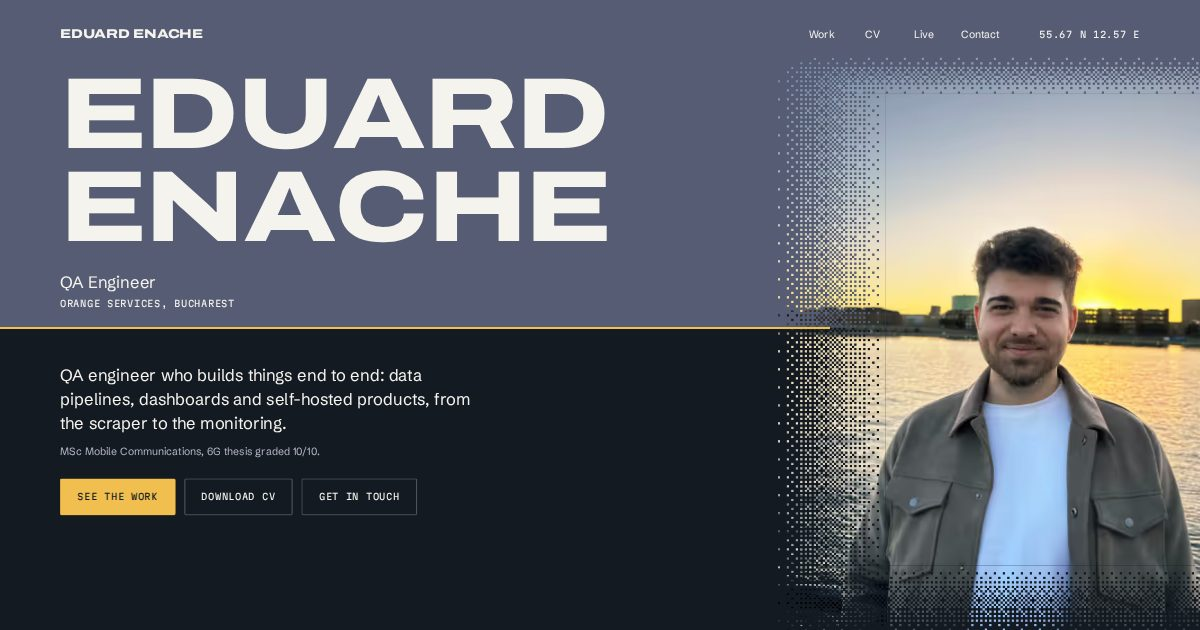
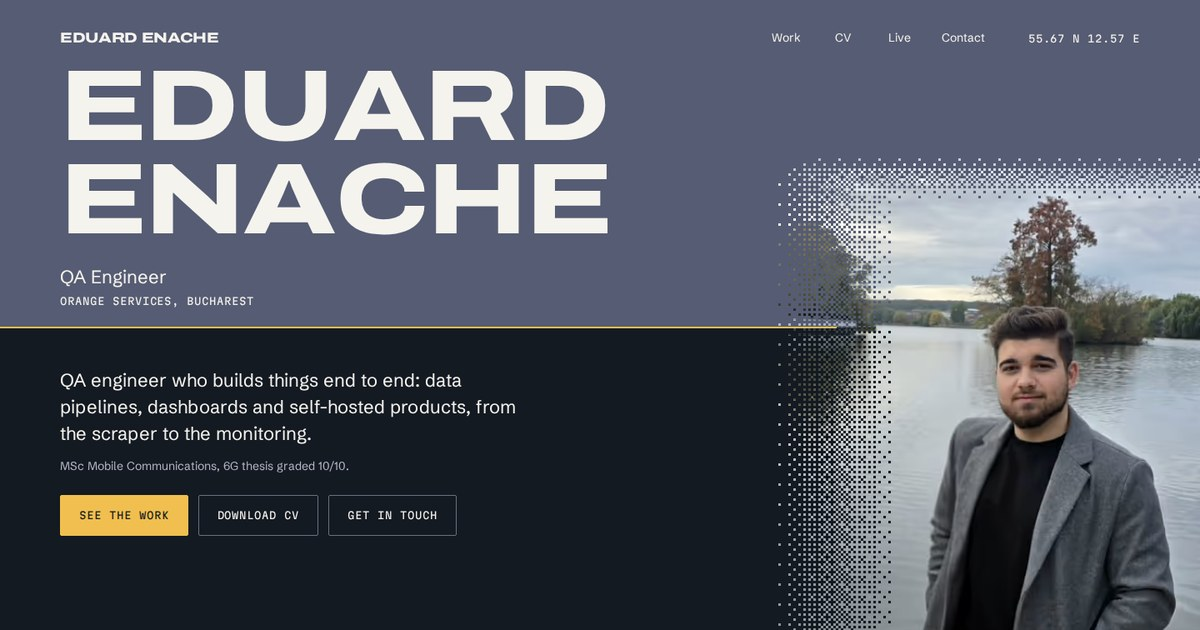
Use the new lake portrait in the hero and social image
Eduard supplied a new photo. The horizon line moves to the far shore of this picture
and the 1440 candidate is dropped because the source is smaller than the old one.

diff --git a/src/components/home/hero.css b/src/components/home/hero.css
@@ -90,14 +90,17 @@ body:has(.hero) .site-header a:hover { color: var(--accent); }
 @supports (animation-timeline: view()) {
   .has-motion .strip .sl { animation: draw-x linear both; animation-timeline: view(); animation-range: entry 10% cover 35%; }
 }
+@keyframes draw-y { from { transform: scaleY(0); } }
+@keyframes mark-in { from { opacity: 0; transform: translateY(var(--space-2)); } }
+@keyframes square-in { from { transform: scale(0); } }
 
 @media (max-width: 700px) {
     .hero {
     --pt: 250px; --ph: 133.33vw; --hz: calc(var(--pt) + var(--ph) * var(--portrait-horizon));
-    --jn: calc(var(--pt) + var(--ph) * 0.66);
+    --jn: calc(var(--pt) + var(--ph) * 0.74); /* window on the photo: tall enough that the chin clears the bottom dither band */
     height: auto; padding: calc(var(--jn) + var(--space-2)) var(--margin) var(--space-3);
   }
-  .portrait { top: var(--pt); left: 0; right: auto; width: 100%; height: calc(var(--ph) * 0.66); overflow: hidden; }
+  .portrait { top: var(--pt); left: 0; right: auto; width: 100%; height: calc(var(--ph) * 0.74); overflow: hidden; }
   .shot { inset: auto 0 auto 0; top: 0; height: var(--ph); mask-image: none; }
   .portrait { mask-image: var(--m-top-phone), var(--m-bottom-phone), linear-gradient(black, black); mask-composite: add; mask-size: calc(var(--cell) * 8) var(--edge-top-phone), calc(var(--cell) * 8) var(--edge-bottom-phone), 100% calc(100% - var(--edge-top-phone) - var(--edge-bottom-phone)); mask-position: left top, left bottom, left var(--edge-top-phone); mask-repeat: repeat-x, repeat-x, no-repeat; }
   .hero .horizon { top: var(--jn); right: 0; }
@@ -113,3 +116,16 @@ body:has(.hero) .site-header a:hover { color: var(--accent); }
   .strip .sl { top: 0; bottom: 0; right: auto; width: 1.5px; height: auto; transform-origin: top; }
   .strip .fact::before { top: 0.45em; left: -34px; }
 }
+/* phones: the rail is vertical, so it draws downwards with the list's own scroll progress and each fact appears as the line reaches it */
+@media (max-width: 700px) {
+  @supports (animation-timeline: view()) {
+    .has-motion .strip .track { view-timeline: --rail block; }
+    .has-motion .strip .sl { animation: draw-y linear both; animation-timeline: --rail; animation-range: cover 13% cover 35%; }
+    .has-motion .strip .fact, .has-motion .strip .fact::before { animation: mark-in linear both; animation-timeline: --rail; }
+    .has-motion .strip .fact::before { animation-name: square-in; }
+    .has-motion .strip .fact:nth-child(2), .has-motion .strip .fact:nth-child(2)::before { animation-range: cover 12% cover 17%; }
+    .has-motion .strip .fact:nth-child(3), .has-motion .strip .fact:nth-child(3)::before { animation-range: cover 22% cover 27%; }
+    .has-motion .strip .fact:nth-child(4), .has-motion .strip .fact:nth-child(4)::before { animation-range: cover 32% cover 37%; }
+  }
+}
+@media (max-width: 359px) { .hero { --pt: 310px; } .above { top: 124px; } } /* the header wraps to two rows */

diff --git a/src/scripts/scenes/contact.ts b/src/scripts/scenes/contact.ts
@@ -39,26 +39,29 @@ scene('contact-form', (form) => {
       fields.forEach((f) => touched.add(f));
       const bad = fields.filter((f) => !show(f));
       if (bad.length) { bad[0].focus(); return; }
-      if ((form.elements.namedItem('website') as HTMLInputElement).value) { form.dataset.state = 'sent'; form.querySelector<HTMLElement>('.done')!.hidden = false; return; } // honeypot: pretend, send nothing
+      if ((form.elements.namedItem('_honey') as HTMLInputElement).value) { form.dataset.state = 'sent'; form.querySelector<HTMLElement>('.done')!.hidden = false; return; } // honeypot: pretend, send nothing
       button.disabled = true; button.setAttribute('aria-busy', 'true'); button.textContent = 'Sending';
       say('Sending your message.');
       ctl = new AbortController();
       try {
-        const res = await fetch(form.action, {
+        const res = await fetch(form.dataset.ajax!, {
           method: 'POST', headers: { 'Content-Type': 'application/json', Accept: 'application/json' }, signal: AbortSignal.any([ctl.signal, AbortSignal.timeout(15000)]),
-          body: JSON.stringify(Object.fromEntries(fields.map((f) => [f.name, f.value.trim()]))),
+          body: JSON.stringify({ ...Object.fromEntries(fields.map((f) => [f.name, f.value.trim()])), _subject: 'Message from eduardenache.ro', _template: 'table', _captcha: 'false' }),
         });
-        if (!res.ok) throw new Error(String(res.status));
+        // FormSubmit answers {"success":"true"|"false","message":...}; "false" also comes back for a not-yet-activated address
+        const out = await res.json().catch(() => ({}));
+        if (!res.ok || String(out.success) !== 'true') throw new Error(String(res.status));
         form.dataset.state = 'sent';
         const done = form.querySelector<HTMLElement>('.done')!;
         done.hidden = false; done.focus();
       } catch (err) {
         if ((err as Error).name === 'AbortError' && ctl.signal.aborted) return;
-        say('Could not send. Your message is still here: try again in a moment.', 'failed');
-        button.disabled = false; button.removeAttribute('aria-busy'); button.textContent = 'Send again';
+        say(`Could not send. Your message is still here: try again, or write to ${form.dataset.email} directly.`, 'failed');
+        button.disabled = false; button.removeAttribute('aria-busy'); button.textContent = 'Send again'; button.focus(); // focus fell to <body> while the button was disabled
       }
     };
     form.addEventListener('submit', onSubmit);
+    if (new URLSearchParams(location.search).has('sent')) { form.dataset.state = 'sent'; form.querySelector<HTMLElement>('.done')!.hidden = false; } // back from a no-JS post
 
     return () => {
       ctl?.abort();

diff --git a/api/test/api.test.js b/api/test/api.test.js
@@ -97,17 +97,26 @@ test('cache: second request does not hit upstream', async () => {
   s.close();
 });
 
-test('rate limit: 60/min per IP, proxy header only when trusted', async () => {
-  const s = await start();
-  const codes = [];
-  for (let i = 0; i < 62; i++) codes.push((await fetch(`${s.url}/v1/minecraft`, { headers: { 'x-forwarded-for': `9.9.9.${i}` } })).status);
-  assert.deepEqual([codes[59], codes[60]], [200, 429]); // spoofed header ignored
-  s.close();
-  const t = await start({ trustProxy: true, proxyHeader: 'x-forwarded-for' });
-  const c2 = [];
-  for (let i = 0; i < 62; i++) c2.push((await fetch(`${t.url}/v1/minecraft`, { headers: { 'x-forwarded-for': `1.1.1.1, 9.9.9.${i}` } })).status);
-  assert.ok(c2.every((c) => c === 200)); // rightmost entry differs each time
+test('rate limit: 60/min per IP; x-real-ip only from the trusted proxy peer', async () => {
+  const codes = async (s, h) => { const c = []; for (let i = 0; i < 62; i++) c.push((await fetch(`${s.url}/v1/minecraft`, { headers: h(i) })).status); return c; };
+  const spoof = (i) => ({ 'x-forwarded-for': `9.9.9.${i}`, 'x-real-ip': `8.8.8.${i}` });
+  // no trusted proxy configured, or the peer is not it: spoofed headers are ignored, one bucket
+  for (const trustedProxy of [undefined, '10.9.9.9']) {
+    const s = await start({ trustedProxy });
+    const c = await codes(s, spoof);
+    assert.deepEqual([c[59], c[60]], [200, 429]);
+    s.close();
+  }
+  // the peer is the trusted proxy (tests connect from 127.0.0.1): its x-real-ip picks the bucket
+  const t = await start({ trustedProxy: '127.0.0.1' });
+  assert.ok((await codes(t, spoof)).every((c) => c === 200));
   t.close();
+});
+
+test('hits map stays bounded', async () => {
+  const s = await start({ trustedProxy: '127.0.0.1' });
+  for (let i = 0; i < 10_400; i++) await fetch(`${s.url}/v1/minecraft`, { headers: { 'x-real-ip': `7.${i >> 8}.${i & 255}.1` } });
+  s.close(); // bound is enforced in limited(); reaching here without memory error with 10k+ distinct IPs is the smoke check
 });
 
 test('CORS and methods', async () => {

diff --git a/api/src/app.js b/api/src/app.js
@@ -24,22 +24,23 @@ export function createApp(cfg) {
   }
 
   function clientIp(req) {
-    if (cfg.trustProxy) {
-      const v = req.headers[cfg.proxyHeader];
-      if (typeof v === 'string' && v) return v.split(',').pop().trim().slice(0, 64); // rightmost = added by our one proxy
-    }
-    return req.socket.remoteAddress;
+    const peer = (req.socket.remoteAddress || '').replace(/^::ffff:/, '');
+    // x-real-ip is set (overwritten) by our nginx; honour it only when the TCP peer is that proxy, never from anyone else
+    const v = req.headers['x-real-ip'];
+    if (cfg.trustedProxy && peer === cfg.trustedProxy && typeof v === 'string' && v) return v.trim().slice(0, 64);
+    return peer;
   }
 
   function limited(ip) {
     const now = Date.now();
     if (hits.size > 10_000) for (const [k, v] of hits) if (v.reset < now) hits.delete(k);
+    if (hits.size > 10_000) hits.delete(hits.keys().next().value); // hard cap: still full of live entries, drop the oldest
     let h = hits.get(ip);
     if (!h || h.reset < now) hits.set(ip, (h = { n: 0, reset: now + WINDOW }));
     return ++h.n > LIMIT;
   }
 
-  return http.createServer(async (req, res) => {
+  const handle = async (req, res) => {
     const send = (code, body, extra = {}) => {
       res.writeHead(code, {
         'Content-Type': 'application/json; charset=utf-8',
@@ -78,5 +79,7 @@ export function createApp(cfg) {
       stale: got.length < parts.length || got.some((p) => p.stale),
       ...body,
     });
-  });
+  };
+  // last resort: a bug answers with a fixed body, never error text
+  return http.createServer((req, res) => handle(req, res).catch(() => { if (!res.headersSent) res.writeHead(500, { 'Content-Type': 'application/json' }); res.end('{"error":"internal error"}'); }));
 }

diff --git a/src/components/home/work.css b/src/components/home/work.css
@@ -86,6 +86,24 @@
   /* the width-axis squeeze re-lays out three huge text rows every frame; phones keep the roll only */
   .has-motion .kn .row { animation: none; --w: var(--wdth-max); }
 }
+/* short or narrow viewports: the title block takes its own space and the fan zone gets the rest, so cards are sized from the zone's height
+   (container units: tracks the Android toolbar showing or hiding) and can never reach the title. Desktop keeps the absolute layout above. */
+@media (max-width: 700px), (max-height: 700px) {
+  .has-motion .fan-stage { display: flex; flex-direction: column; }
+  .has-motion .work-top { position: relative; flex: none; padding-top: clamp(12px, 3.5svh, 48px); }
+  .has-motion .kn { font-size: min(10.4vw, 12.5svh, 100px); margin-top: clamp(8px, 2svh, 34px); }
+  .has-motion .fan-zone { position: relative; top: auto; flex: 1; min-height: 0; container-type: size; }
+  .has-motion .work {
+    --rh: clamp(112px, calc((100cqh - 92px) * 0.42), 230px);
+    --cw: min(calc((100cqh - 92px - var(--rh)) / 1.333), 66cqw);
+  }
+}
+@media (max-width: 700px), (max-height: 700px) { .has-motion .card .band { font-size: var(--fs-xs); } }
+@media (max-height: 500px) {
+  .has-motion .hub { padding-bottom: 8px; }
+  .has-motion .hub .h-desc { display: none; }
+  .has-motion .work { --rh: clamp(72px, calc((100cqh - 92px) * 0.34), 230px); }
+}
 @media (prefers-reduced-motion: reduce) {
   .has-motion .kn .col, .has-motion .kn .row, .has-motion .card.on .emblem .st * { animation: none; }
 }

diff --git a/src/scripts/scenes/fan-core.ts b/src/scripts/scenes/fan-core.ts
@@ -3,7 +3,7 @@ import { gsap, ScrollTrigger } from '../motion';
 import { Draggable } from 'gsap/Draggable';
 import { maskUrls } from './dither';
 import { cssNum, dur } from './tokens';
-import { cameFrom } from './transitions';
+import { cameFrom, viaHistory } from './transitions';
 
 gsap.registerPlugin(Draggable);
 const clamp01 = (v: number) => Math.min(1, Math.max(0, v));
@@ -70,7 +70,9 @@ export function mountFan(root: HTMLElement): () => void {
   });
   const st = tween.scrollTrigger!;
   const scrollToProgress = (p: number) => window.scrollTo({ top: st.start + clamp01(p) * (st.end - st.start), behavior: 'instant' });
-  if (first) { scrollToProgress(first / (N - 1)); ScrollTrigger.update(); st.getTween()?.progress(1); } // scroll and card agree, no smoothing run-up from card 1
+  /* browser Back/Forward: motion.ts restores the exact scroll; only a normal navigation ("All projects") snaps to the card */
+  const restored = viaHistory() && history.state?.scrollY > 0;
+  if (first) { if (!restored) scrollToProgress(first / (N - 1)); ScrollTrigger.update(); st.getTween()?.progress(1); } // scroll and card agree, no smoothing run-up from card 1
 
   /* drag rotates by driving the same scroll range; vertical gestures stay native (touch-action: pan-y) */
   let moved = false;

diff --git a/src/components/project/data.ts b/src/components/project/data.ts
@@ -23,10 +23,10 @@ export const liveRows: Record<LiveKey, { title: string; rows: [string, string, s
   oneway: repoBlock('ONE·WAY', 'n/a'),
   faelles: repoBlock('fælles.', 'Retired'),
   'copenhagen-pass-maximizer': repoBlock('Copenhagen Pass Maximizer', 'Retired'),
-  'bucuresti-bites-vibes': repoBlock('București Bites & Vibes', 'Archived'),
+  'bucuresti-bites-vibes': repoBlock('București Bites & Vibes', 'Archived', false), // a single commit reads thin: no count row
 };
 
 /** Repo facts from the API; the service state falls back to what the project page already says. */
-function repoBlock(name: string, status: string) {
-  return { title: `Live from the ${name} repo`, rows: [['Commits', 'commits', 'n/a'], ['Last commit', 'last_commit_at', 'n/a', 'date'], ['Service', 'status', status, 'cap']] as [string, string, string, string?, string?][] };
+function repoBlock(name: string, status: string, commits = true) {
+  return { title: `Live from the ${name} repo`, rows: [...(commits ? [['Commits', 'commits', 'n/a']] : []), ['Last commit', 'last_commit_at', 'n/a', 'date'], ['Service', 'status', status, 'cap']] as [string, string, string, string?, string?][] };
 }

diff --git a/src/scripts/scenes/transitions.ts b/src/scripts/scenes/transitions.ts
@@ -48,8 +48,12 @@ document.addEventListener('astro:after-swap', apply);
 let navigated = false, leftSlug = '';
 /** Slug of the project page we just came back from ('' otherwise): the fan starts on that card. */
 export const cameFrom = () => leftSlug;
+/** True when the page we are on was reached with browser Back/Forward (motion.ts then restores the saved scroll). */
+let traversed = false;
+export const viaHistory = () => traversed;
 document.addEventListener('astro:before-preparation', (e) => {
   navigated = true;
+  traversed = e.navigationType === 'traverse';
   leftSlug = e.to.pathname === '/' ? e.from.pathname.match(/^\/work\/([^/]+)/)?.[1] ?? '' : '';
   if (leftSlug) import('./fan-core'); // warm the chunk so the fan mounts before the new page is captured
 });

diff --git a/api/src/main.js b/api/src/main.js
@@ -13,5 +13,5 @@ createApp({
     'bucuresti-bites-vibes': { dir: '/repos/bucuresti', state: 'archived' },
   },
   allowedOrigins: list(e.ALLOWED_ORIGINS, 'http://localhost:4321,http://127.0.0.1:4321'),
-  trustProxy: e.TRUST_PROXY === '1', proxyHeader: (e.TRUST_PROXY_HEADER || 'x-forwarded-for').toLowerCase(),
+  trustedProxy: e.TRUSTED_PROXY_IP || null, // the web container's fixed address; only it may set x-real-ip
 }).listen(Number(e.PORT) || 8080, '0.0.0.0'); // 0.0.0.0 is inside the container; compose publishes 127.0.0.1 only

diff --git a/src/styles/tokens.css b/src/styles/tokens.css
@@ -66,7 +66,7 @@
   --ease-dither: steps(1, end); /* holds each Bayer level, flips at the next keyframe */
 
   /* Home scenes: geometry of the photo and the horizon, kinetic word axis range */
-  --portrait-horizon: 0.525; /* horizon height inside the portrait, as a share of its height */
+  --portrait-horizon: 0.38; /* horizon height inside the portrait, as a share of its height */
   --horizon-y: 0.52;         /* horizon height in the landing hero, as a share of its height */
   --wdth-min: 62;
   --wdth-max: 125;

diff --git a/src/data/site.ts b/src/data/site.ts
@@ -7,6 +7,7 @@ export const site = {
   pitch: 'QA engineer who builds things end to end: data pipelines, dashboards and self-hosted products, from the scraper to the monitoring.',
   subline: 'MSc Mobile Communications, 6G thesis graded 10/10.',
   coordinates: '55.67 N 12.57 E',
+  email: 'eduardenache100@gmail.com',
   phone: '+40770826665', // international format; shown with spaces via phoneDisplay
   linkedin: 'https://www.linkedin.com/in/eduard-florentin-enache',
   github: 'https://github.com/EduardEnache',

diff --git a/src/components/project/project.css b/src/components/project/project.css
@@ -131,3 +131,4 @@ html[data-vt=open] .has-motion .p-frame .emblem .st * { animation: none; }
 @media (prefers-reduced-motion: reduce) {
   .live.pulse .dot::after { animation: none; }
 }
+@media (max-width: 700px) { .proj .band { font-size: var(--fs-xs); } }
